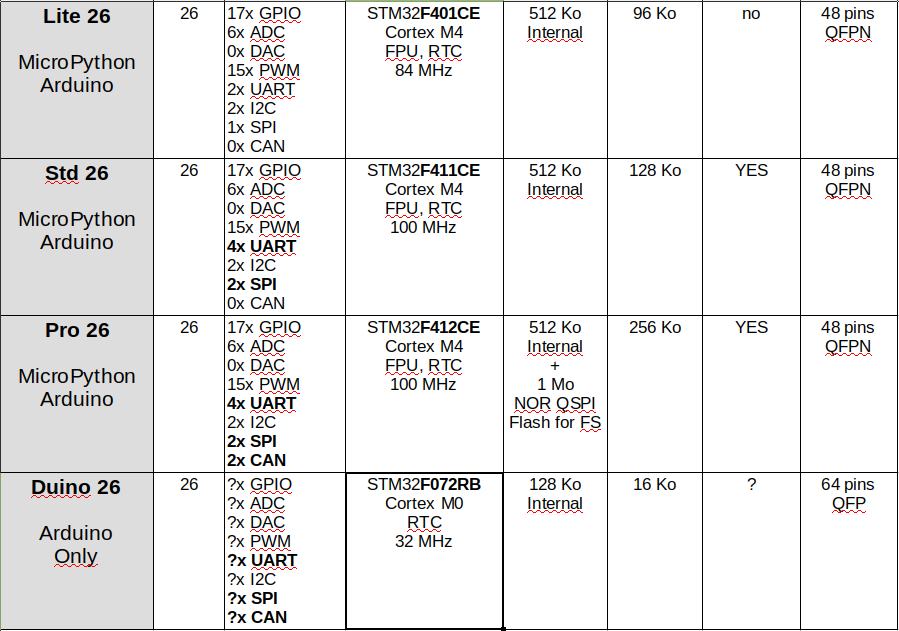
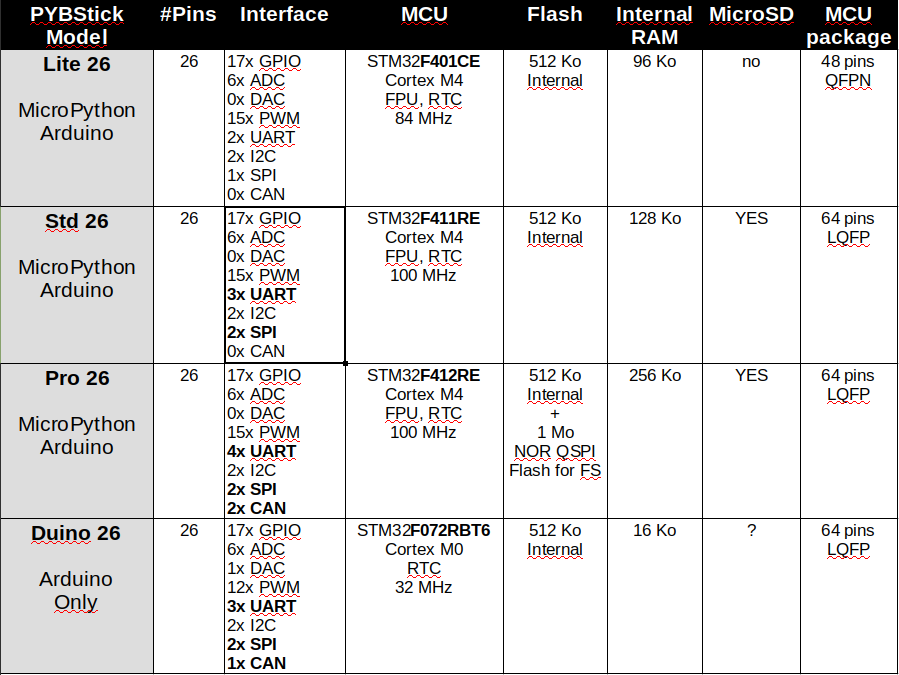
PYBStick Std

Changed region(s): [[0.0, 0.0, 1.0, 1.0], [0.8098, 0.2409, 0.8721, 0.271], [0.1869, 0.2409, 0.218, 0.271]]

diff --git a/PYBStick/readme.md b/PYBStick/readme.md
@@ -2,17 +2,23 @@
 
 # PYBStick 26 : La carte MicroPython d'entrée de gamme pour tous les projets
 
-TODO : description
+La carte PYBStick est un projet commun de [Garatronic](http://garatronic.fr) et  [MCHobby](https://shop.mchobby.be). Nous voulions réaliser une carte MicroPython suffisamment abordable, pratique et bien documentée en Français pour pouvoir être inclue dans tous les projets sans devoir s'inquiéter du prix. Nous l'avons fait, c'est la PYBStick. La plateforme inclus le puissant STM32, ce qui permet d'avoir une puissante plateforme supportant à la fois Arduino IDE et MicroPython... que demander de plus?
 
 ![Caractéristiques de la PYBStick 26](docs/_static/pybstick-features.jpg)
 
 ## Modèles de PYBStick
 
-La PYBStick 26 existe en 3 modèle: Lite, Standard et Pro
+Une bonne chose ne venant jamais seule, la PYBStick 26 existe en plusieurs déclinaisons : Lite, Standard, Pro et duino (cette dernière réservée à Arduino).
 
 ![Modèles de PYBStick 26](docs/_static/PYBStick-models-list.png)
 
 # Information technique
+
+## PYBStick Standard 26
+
+![Brochage de la PYBStick Std 26](docs/_static/PYBStick-STD-26.jpg)
+
+Aussi disponible en haute définition sur le lien [PYBStick-STD-26.png](docs/_static/PYBStick-STD-26.png)
 
 ## PYBStick Lite 26
 
@@ -389,7 +395,7 @@ s.angle( -90 )
 
 Alimentation externe pour les servo-moteurs.
 
-![Pyboard et Servo-moteur](docs/_static/pybstick-dcmotor-servo.jpg)
+![Servo-moteur et alimentation externe](docs/_static/pybstick-servo2.jpg)
 
 Brancher deux servo-moteurs sur les sorties SERVO(1) et SERVO(4) puis saisir le code suivant pour coordonner le mouvement des deux servo-moteurs.
 
@@ -575,10 +581,15 @@ Envie de faire vos propres schéma à base de PYBStick? Pas de problème, nous a
 * [PYBStick-Lite-26-template(640px).png](docs/_statics/PYBStick-Lite-26-template(640px).png) - 640 pixels de haut
 * [PYBStick-Lite-26-template(800px).png](docs/_statics/PYBStick-Lite-26-template(800px).png) - 800 pixels de haut
 * [PYBStick-Lite-26-template.png](docs/_statics/PYBStick-Lite-26-template.png) - la plus haute résolution, 2700 pixels de haut
+* [PYBStick-STD-26-template(640px).png](docs/_statics/PYBStick-STD-26-template(640px).png) - 640 pixels de haut
+* [PYBStick-STD-26-template(800px).png](docs/_statics/PYBStick-STD-26-template(800px).png) - 800 pixels de haut
+* [PYBStick-STD-26-template.png](docs/_statics/PYBStick-STD-26-template.png) - la plus haute résolution, 2700 pixels de haut
 
 __Composant Fritzing:__
 
-Un composant Fritzing est disponible pour la PYBStick, vous le trouverez dans le répertoire [`docs/fritzing/`](docs/fritzing/)
+Un composant Fritzing est disponible pour la PYBStick, vous le trouverez dans le répertoire [`docs/fritzing/`](docs/fritzing/).
+
+Bien qu'il s'agisse d'un composant PYBStick lite, vous pouvez l'utiliser indépendamment pour la version Lite et Standard (le brochage et les fonctions sont identiques).
 
 ![Composant PYBStick pour Fritzing](docs/_static/pybstick-fritzing.jpg)
 
@@ -589,8 +600,6 @@ Garatronic, le créateur de la PYBStick propose un boîtier à imprimer. Les fic
 ![Boîtier basique pour PYBStick](docs/_static/case-basic.jpg)
 
 # Liste d'achat
-
-TODO
-
 * [PYBStick-Lite-26](https://shop.mchobby.be/product.php?id_product=1830)
+* [PYBStick-Std-26](https://shop.mchobby.be/product.php?id_product=1844)
 * [Cartes MicroPython](https://shop.mchobby.be/fr/56-micropython)
